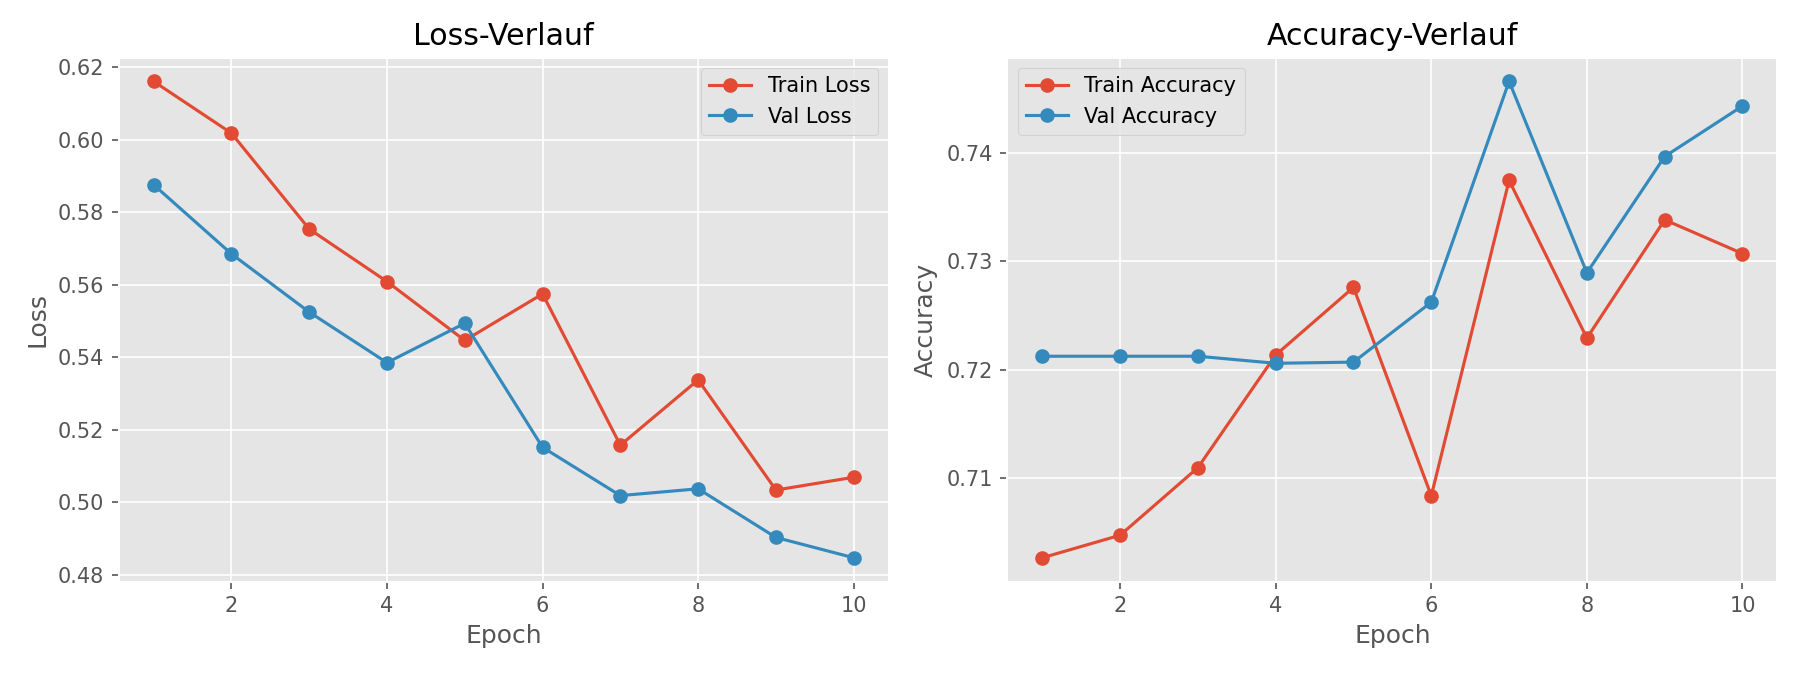
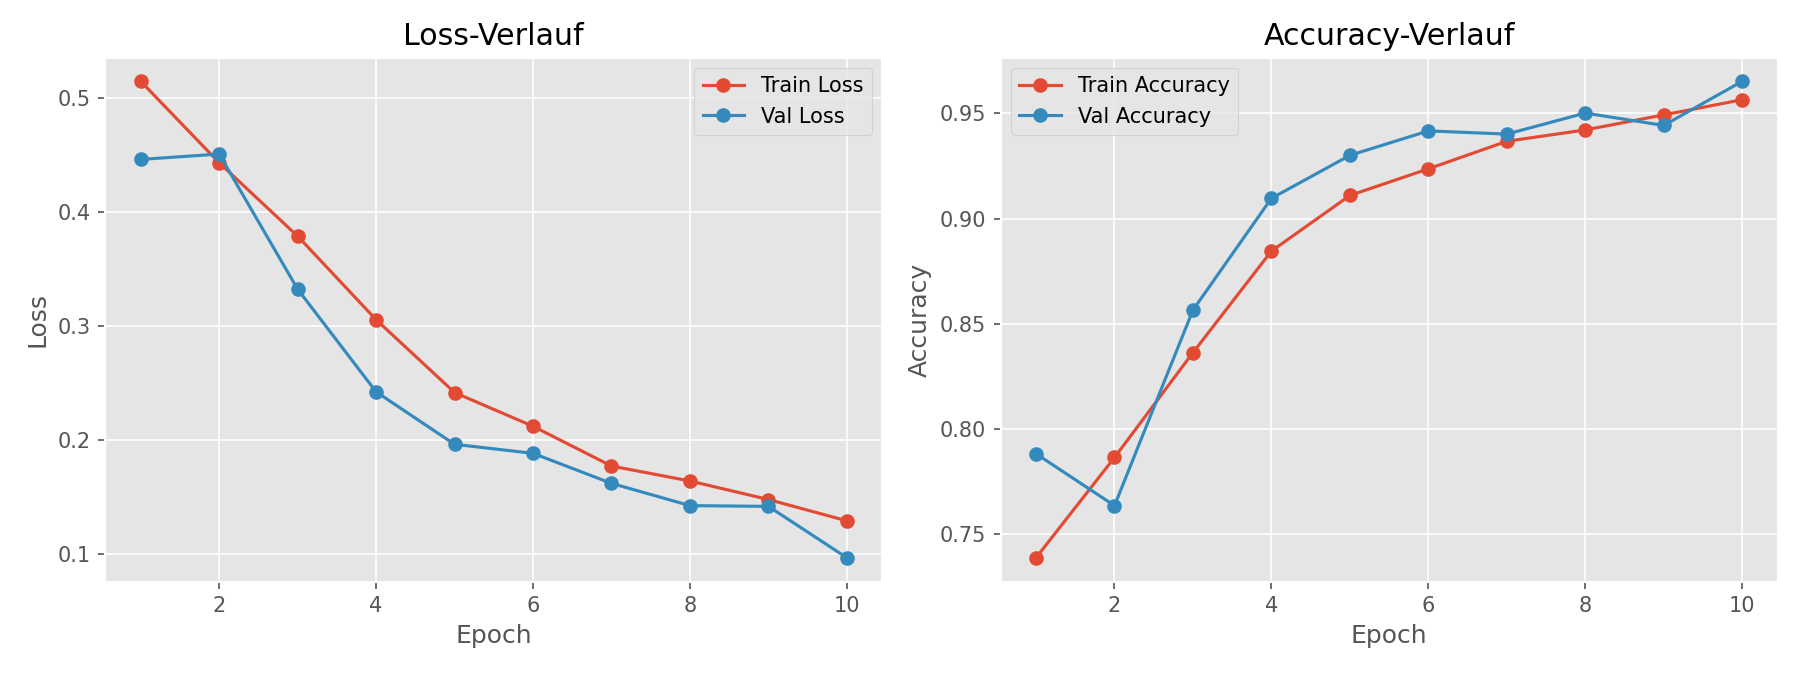
Update training script and configuration: set MAX_TRAIN_BATCHES_PER_EPOCH to 0, remove horizontal flip from transformations

diff --git a/project/02_train_model.py b/project/02_train_model.py
@@ -15,7 +15,7 @@ from torchvision import datasets, transforms
 SEED = 42
 EPOCHS = 10
 LEARNING_RATE = 1e-3
-MAX_TRAIN_BATCHES_PER_EPOCH = 30
+MAX_TRAIN_BATCHES_PER_EPOCH = 0
 PLOT_PATH = Path('plot/model_training_learning_curve.png')
 
 def get_device() -> torch.device:
@@ -77,7 +77,6 @@ def build_dataloaders(
     train_tf = transforms.Compose(
         [
             transforms.Resize((image_size, image_size)),
-            transforms.RandomHorizontalFlip(p=0.5),
             transforms.ToTensor(),
         ]
     )
